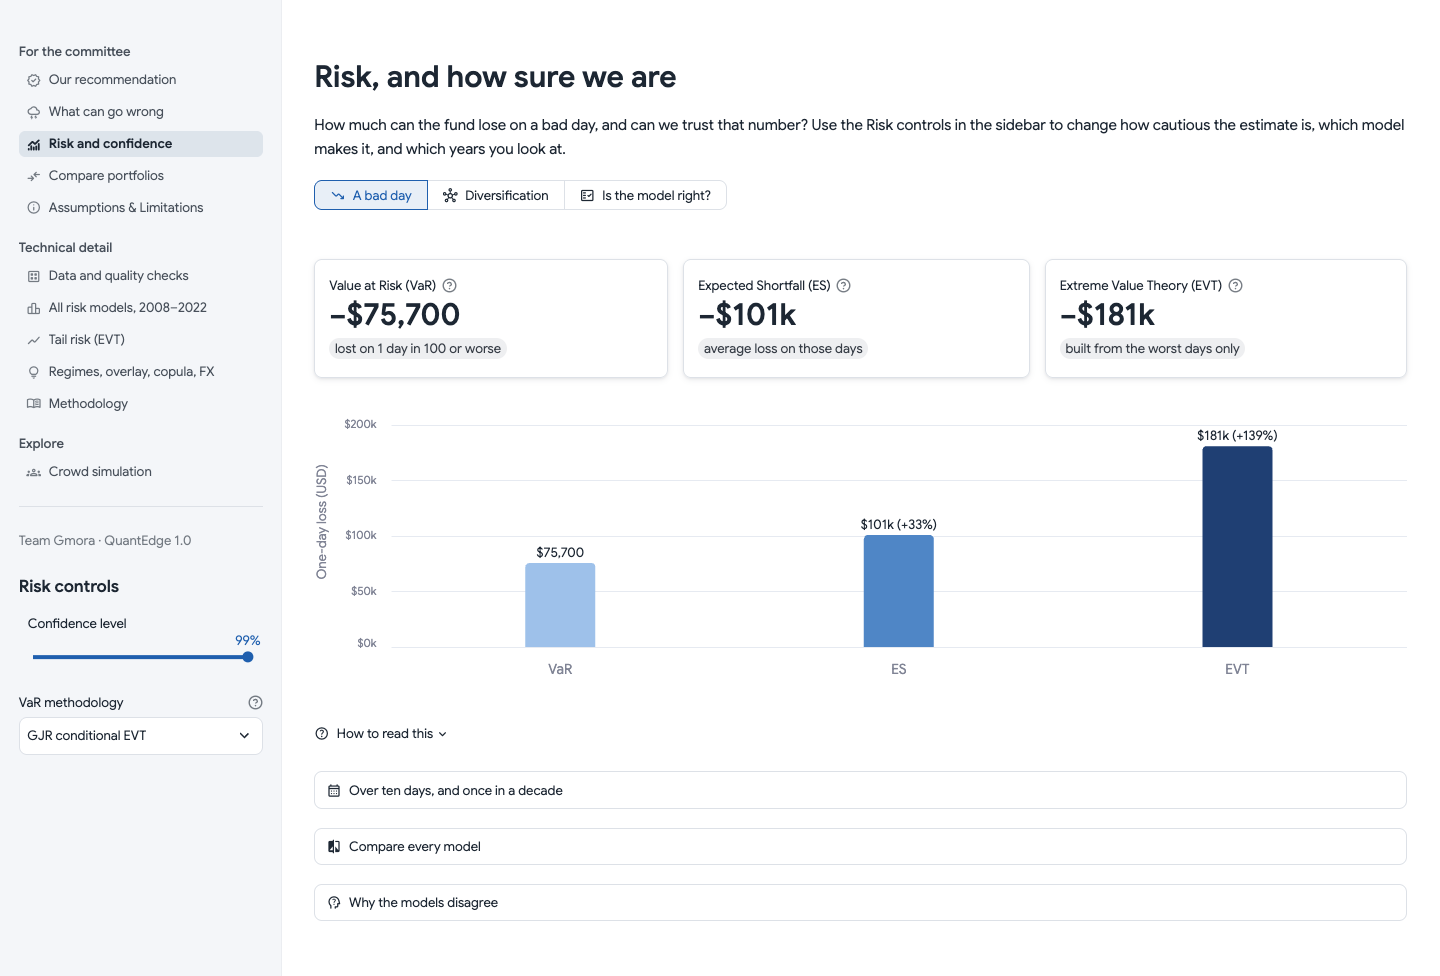
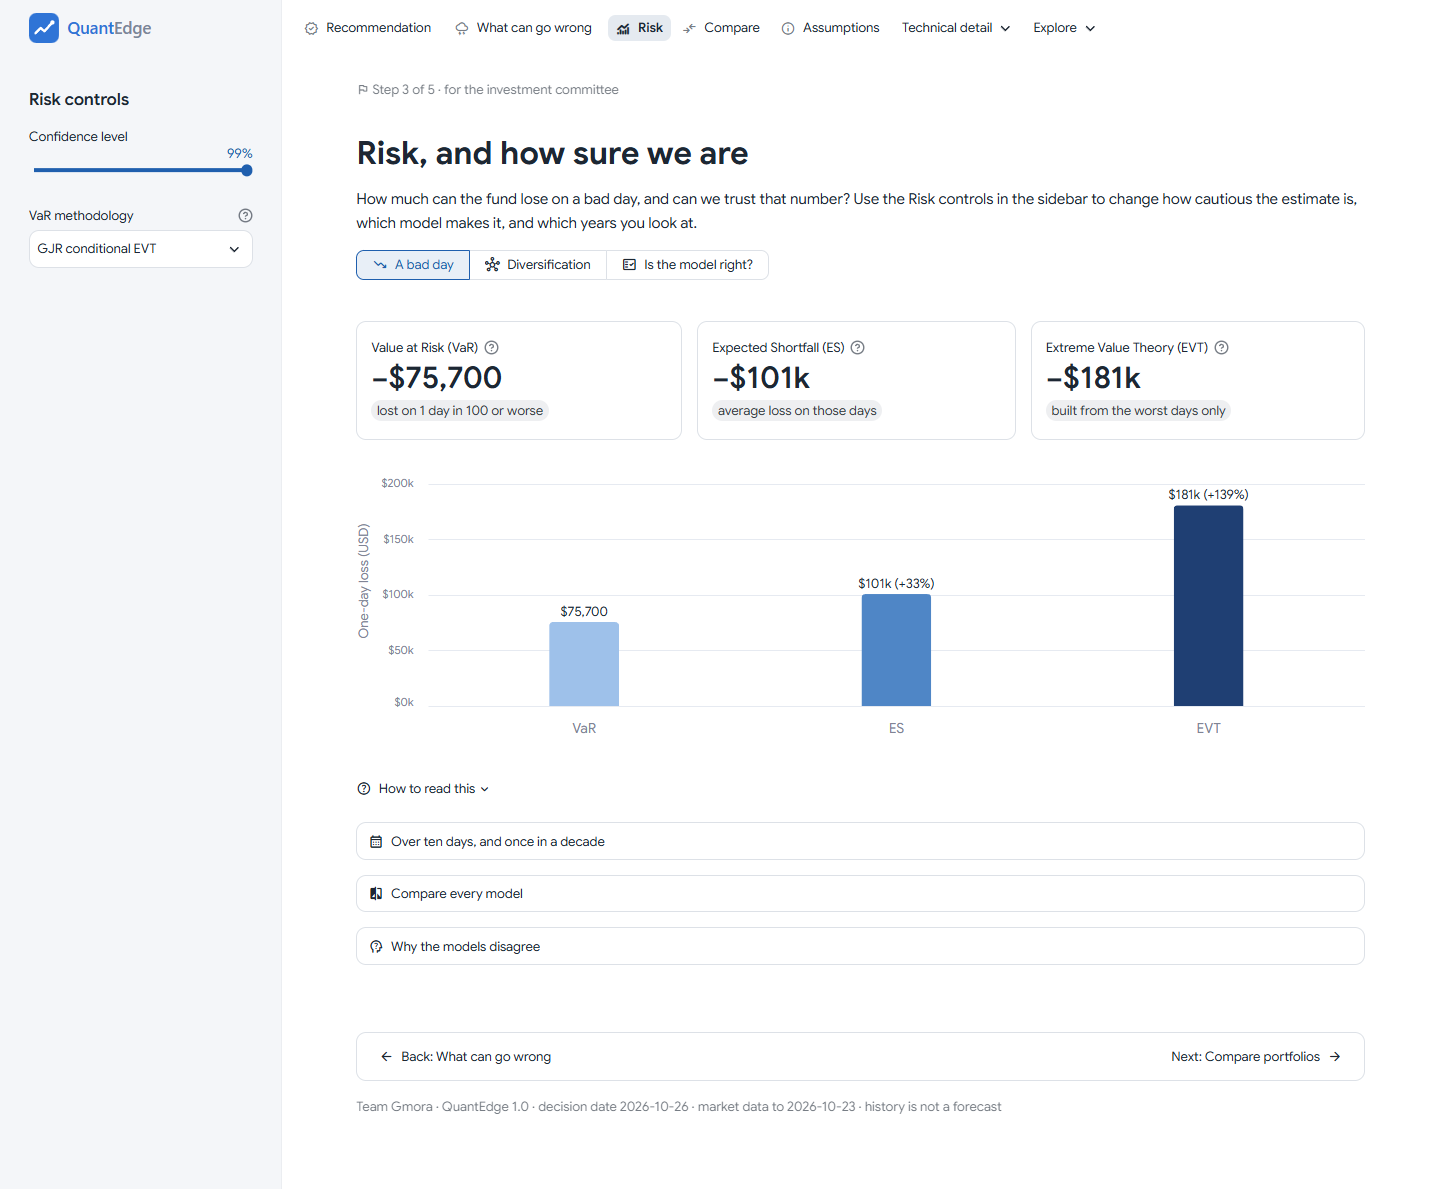
Update the README and its screenshots for the new UI

diff --git a/README.md b/README.md
@@ -53,17 +53,17 @@ If `streamlit run` reports `No module named 'quantedge'`, a global Python was us
 
 ## What the app shows
 
-Five pages are written for the investment committee, in plain language. Five more hold the technical detail, and two Explore pages let you try your own portfolio and compare our scenario with a crowd simulation.
+Five pages are written for the investment committee, in plain language, and sit in the top bar in reading order: each one says which step of the story it is and ends with a link to the next. The **Technical detail** menu holds five more pages, and the **Explore** menu lets you try your own portfolio and compare our scenario with a crowd simulation. The app follows your system's light or dark mode.
 
 ### Our recommendation
 
-The decision, the four numbers that matter, and what would change the answer. Move the equity premium, real yield and tax assumptions and watch the verdict respond.
+The decision beside the allocation, the four numbers that matter, and a one-page committee summary to download. Four views explore it: the mix and where its risk comes from, what would change the answer, the two alternatives as side-by-side cards, and why this mix. In **What would change it**, move the equity premium, real yield and tax assumptions and watch the verdict respond.
 
 ![What would change the verdict](doc/screenshots/02_what_would_change_it.png)
 
 ### What can go wrong
 
-Every crisis against one budget, then a scenario builder: set your own shocks to yields, oil, VIX, the dollar and credit, and see the loss by fund and how often history has gone that far.
+Every crisis against one budget, then a scenario builder: set your own shocks to yields, oil, VIX, the dollar and credit, and see the loss by fund and how often history has gone that far. **Back to our scenario** resets the sliders.
 
 ![Crises and the scenario builder](doc/screenshots/03_crises.png)
 
@@ -91,13 +91,13 @@ Every limit with the room left, every assumption, and 24 limitations with what w
 
 ### Technical detail
 
-Data quality flags, all risk models on 2008–2022, EVT threshold diagnostics, and the regime, overlay, copula and FX studies.
+In the **Technical detail** menu: data quality flags, all risk models on 2008–2022, EVT threshold diagnostics, and the regime, overlay, copula and FX studies.
 
 ![EVT threshold diagnostics](doc/screenshots/08_evt.png)
 
 ### Try your own portfolio
 
-Set any mix of the seven funds and see it measured exactly as the recommendation was: expected return, worst crisis, a very bad day and volatility, each against its limit. With the sliders untouched, the page gives the recommendation's own numbers.
+Set any mix of the seven funds and see it measured exactly as the recommendation was: expected return, worst crisis, a very bad day and volatility, each against its limit, with a pass or fail for every test. **Start from** loads the recommendation, either alternative, a 60/40 mix or equal weights. With the sliders untouched, the page gives the recommendation's own numbers.
 
 ![Try your own portfolio](doc/screenshots/10_custom.png)
 
